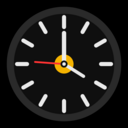
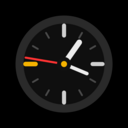
20260714 minor design refinements (#7)
* minor design refinements

* [pre-commit.ci] auto fixes from pre-commit.com hooks

for more information, see https://pre-commit.ci

* chore: regenerate icons from icon.svg

---------

diff --git a/index.html b/index.html
@@ -234,8 +234,18 @@ if ('serviceWorker' in navigator) navigator.serviceWorker.register('sw.js');
       const ang = i * Math.PI / 6;
       const major = i % 3 === 0;
       const len = major ? r * 0.11 : r * 0.05;
-      ctx.strokeStyle = major ? "#cfcfcf" : "#4a4a4a";
-      ctx.lineWidth = major ? Math.max(2, side * 0.008) : Math.max(1, side * 0.004);
+      const ACCENT = getComputedStyle(document.documentElement).getPropertyValue('--accent').trim();
+      // Highlight the 45-second mark (LEAD) in yellow — reuses LEAD variable
+      let tickColor = major ? "#cfcfcf" : "#4a4a4a";
+      let tickWidth = major ? Math.max(2, side * 0.008) : Math.max(1, side * 0.004);
+      if (i === ((60 - LEAD) / 5) % 12) {   // 45s → i=9 when LEAD=15
+        //tickColor = "var(--accent)";
+        tickColor = ACCENT;
+        tickWidth = Math.max(3.5, side * 0.013);
+      }
+
+      ctx.strokeStyle = tickColor;
+      ctx.lineWidth = tickWidth;
       ctx.lineCap = "round";
       const x0 = c + (r) * Math.sin(ang),       y0 = c - (r) * Math.cos(ang);
       const x1 = c + (r - len) * Math.sin(ang), y1 = c - (r - len) * Math.cos(ang);
@@ -251,11 +261,15 @@ if ('serviceWorker' in navigator) navigator.serviceWorker.register('sw.js');
     hand(c, minAng,  r * 0.78, side * 0.013, "#ececec");
     hand(c, secAng,  r * 0.86, side * 0.006, "#ff3333");   // red second hand
 
-    // center dot
-    ctx.fillStyle = "#ececec";
+    // center dot - simple hollow ring (blank look until LEAD)
+    ctx.fillStyle = "#000000";
+    ctx.strokeStyle = "#ececec";
+    ctx.lineWidth = side * 0.009;
+
     ctx.beginPath();
-    ctx.arc(c, c, side * 0.012, 0, Math.PI * 2);
+    ctx.arc(c, c, side * 0.018, 0, Math.PI * 2);
     ctx.fill();
+    ctx.stroke();
   }
 
   function pad(n){ return n < 10 ? "0" + n : "" + n; }